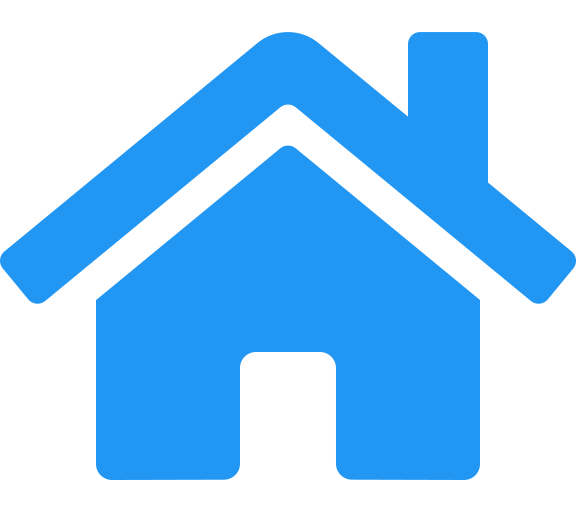
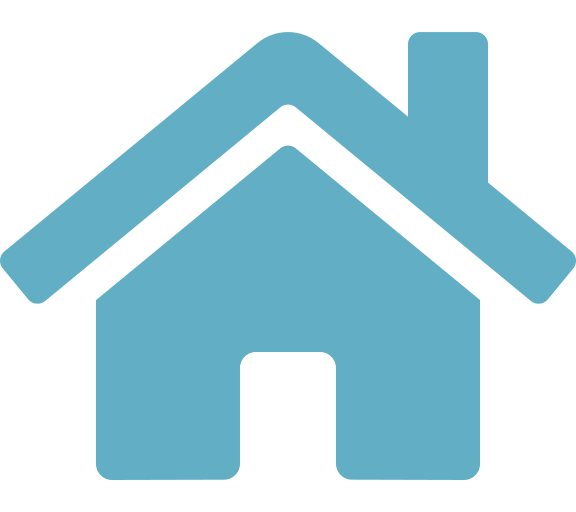
adding style changes and michi vs shiba project

diff --git a/src/components/comp-views/comp-view-projects.js b/src/components/comp-views/comp-view-projects.js
@@ -14,25 +14,18 @@ class ViewProjects extends Component{
         </div>
         <div className="row row-to-center">
           <div className="each-project-container col-sm-12 col-md-6">
-            <Project title={this.props.language.language.projects.projects[0].title} alt="Simpsons Trivia image" src='https://i.ibb.co/Gcw0pJ9/homer.png' 
-            description={this.props.language.language.projects.projects[0].description}
+            <Project title={this.props.language.language.projects.projects[5].title} alt="Michi image" src='https://i.ibb.co/1srK4XF/michi.png' 
+            description={this.props.language.language.projects.projects[5].description}
             deploy={this.props.language.language.projects.deploy}
             repo={this.props.language.language.projects.repository}
-            linkdeploy="https://alelulu.github.io/Trivia/index.html" linkgithub="https://github.com/alelulu/Trivia"/>
+            linkdeploy="https://mexico-stores.herokuapp.com/" linkgithub="https://github.com/alelulu/generation-take-home-intern"/>
           </div>
           <div className="each-project-container col-sm-12 col-md-6">
-            <Project title={this.props.language.language.projects.projects[1].title} alt="Pokemon image" src='https://i.ibb.co/PQ2YxDX/pokeball.png' 
-            description={this.props.language.language.projects.projects[1].description}
+            <Project title={this.props.language.language.projects.projects[4].title} alt="Map image" src='https://i.ibb.co/pLCqryr/map.png' 
+            description={this.props.language.language.projects.projects[4].description}
             deploy={this.props.language.language.projects.deploy}
             repo={this.props.language.language.projects.repository}
-            linkdeploy="https://alelulu.github.io/SCL009-data-lovers/src/index.html" linkgithub="https://github.com/alelulu/SCL009-data-lovers"/>
-          </div>
-          <div className="each-project-container col-sm-12 col-md-6">
-            <Project title={this.props.language.language.projects.projects[2].title} alt="Console image" src='https://i.ibb.co/nMdzsvG/mdlinks.png' 
-            description={this.props.language.language.projects.projects[2].description}
-            deploy={this.props.language.language.projects.deploy}
-            repo={this.props.language.language.projects.repository}
-            linkdeploy="https://www.npmjs.com/package/alelulu-md-links" linkgithub="https://github.com/alelulu/SCL009-md-links"/>
+            linkdeploy="https://mexico-stores.herokuapp.com/" linkgithub="https://github.com/alelulu/generation-take-home-intern"/>
           </div>
           <div className="each-project-container col-sm-12 col-md-6">
             <Project title={this.props.language.language.projects.projects[3].title} alt="SVKH image" src='https://i.ibb.co/svCntZZ/svkh.png' 
@@ -42,11 +35,25 @@ class ViewProjects extends Component{
             linkdeploy="https://sindrome-vkh.firebaseapp.com/" linkgithub="https://github.com/alelulu/SVKH-Chile"/>
           </div>
           <div className="each-project-container col-sm-12 col-md-6">
-            <Project title={this.props.language.language.projects.projects[4].title} alt="Map image" src='https://i.ibb.co/pLCqryr/map.png' 
-            description={this.props.language.language.projects.projects[4].description}
+            <Project title={this.props.language.language.projects.projects[2].title} alt="Console image" src='https://i.ibb.co/nMdzsvG/mdlinks.png' 
+            description={this.props.language.language.projects.projects[2].description}
             deploy={this.props.language.language.projects.deploy}
             repo={this.props.language.language.projects.repository}
-            linkdeploy="https://mexico-stores.herokuapp.com/" linkgithub="https://github.com/alelulu/generation-take-home-intern"/>
+            linkdeploy="https://www.npmjs.com/package/alelulu-md-links" linkgithub="https://github.com/alelulu/SCL009-md-links"/>
+          </div>
+          <div className="each-project-container col-sm-12 col-md-6">
+            <Project title={this.props.language.language.projects.projects[1].title} alt="Pokemon image" src='https://i.ibb.co/PQ2YxDX/pokeball.png' 
+            description={this.props.language.language.projects.projects[1].description}
+            deploy={this.props.language.language.projects.deploy}
+            repo={this.props.language.language.projects.repository}
+            linkdeploy="https://alelulu.github.io/SCL009-data-lovers/src/index.html" linkgithub="https://github.com/alelulu/SCL009-data-lovers"/>
+          </div>
+          <div className="each-project-container col-sm-12 col-md-6">
+            <Project title={this.props.language.language.projects.projects[0].title} alt="Simpsons Trivia image" src='https://i.ibb.co/Gcw0pJ9/homer.png' 
+            description={this.props.language.language.projects.projects[0].description}
+            deploy={this.props.language.language.projects.deploy}
+            repo={this.props.language.language.projects.repository}
+            linkdeploy="https://alelulu.github.io/Trivia/index.html" linkgithub="https://github.com/alelulu/Trivia"/>
           </div>
         </div>
       </div>

diff --git a/src/App.js b/src/App.js
@@ -1,22 +1,12 @@
 import React, { Component } from 'react';
 import './App.css';
 import { Switch, Route } from "react-router-dom";
-import Menu from './components/comp-menu/comp-menu';
 import { Link } from 'react-router-dom';
 import ViewAbout from './components/comp-views/comp-view-about'
 import ViewProjects from './components/comp-views/comp-view-projects';
 import ViewSkills from './components/comp-views/comp-view-skills';
 import es from './assets/data/es.json'
 import en from './assets/data/en.json'
-
-
-/* if(window.language == "es"){
-  setlanguage(es)
-}
-else {
-  console.log(language)
-  setlanguage(en)
-} */
 
 class App extends Component {
   constructor(props) {
@@ -63,19 +53,19 @@ class App extends Component {
               <div className="row nav-row">
                 <div className="col-sm-4 col-md-2 btn-container">
                   <Link to="/about">
-                    <img alt="About" src="https://i.ibb.co/T1FsWfX/home.png" className="nav-icon"/>
+                    <img alt="About" src="https://i.ibb.co/VV6W74y/home.png" className="nav-icon"/>
                     <p className="nav-title">{this.state.language.language.menu.about}</p>
                   </Link>
                 </div>
                 <div className="col-sm-4 col-md-2 btn-container">
                   <Link to="/projects">
-                    <img alt="Projects" src="https://i.ibb.co/tPLBD8r/projects.png" className="nav-icon"/>
+                    <img alt="Projects" src="https://i.ibb.co/2KKPmnS/projects.png" className="nav-icon"/>
                     <p className="nav-title">{this.state.language.language.menu.projects}</p>
                   </Link>
                 </div>
                 <div className="col-sm-4 col-md-2 btn-container">
                   <Link to="/skills">
-                    <img alt="Skills" src="https://i.ibb.co/w7FSRsQ/skills.png" className="nav-icon"/>
+                    <img alt="Skills" src="https://i.ibb.co/YkMwSg4/skills.png" className="nav-icon skills-icon"/>
                     <p className="nav-title">{this.state.language.language.menu.skills}</p>
                   </Link>
                 </div>

diff --git a/src/App.css b/src/App.css
@@ -4,7 +4,7 @@
 
 .window-content {
   width: 100%;
-  margin-top: 7%;
+  margin-top: 4%;
   margin-bottom: 4%;
   min-height: 70vh;
   position: relative;
@@ -12,7 +12,7 @@
   border: 1px solid #dddddd;
 /*   background-image: url("./assets/img/background.png"); */
   padding: 0;
-  background-color: #ffe1e0;
+  background-color: #ffe9e8;
 }
 .window-content::before {
   content: " ";
@@ -43,6 +43,7 @@
   top: 0;
   margin: 0;
   padding: 15px;
+  border-bottom: 1px solid #cacaca;
 }
 
 .title {
@@ -101,11 +102,11 @@
 }
 
 input:checked + .slider {
-  background-color: #6dc9c9;
+  background-color: #62aec5;
 }
 
 input:focus + .slider {
-  box-shadow: 0 0 1px #6dc9c9;
+  box-shadow: 0 0 1px #62aec5;
 }
 
 input:checked + .slider:before {
@@ -145,7 +146,32 @@ a:hover {
 }
 .btn-container {
   text-align: center;
+  width: 75px;
   margin: 0rem -1rem 1rem -1rem;
+}
+
+.nav-row {
+  text-align: center;
+}
+
+.menu-container {
+  text-align: center;
+}
+
+.nav-icon {
+  width: 25px;
+  margin-top: 17px;
+  margin-bottom: 1px;
+}
+.nav-title {
+  color: #ff6f69
+}
+.btn-container {
+  text-align: center;
+}
+.skills-icon {
+  height: 21px!;
+  width: 21px
 }
 
 @media (max-width: 600px) {

diff --git a/src/components/comp-project/comp-project.js b/src/components/comp-project/comp-project.js
@@ -8,9 +8,9 @@ class Project extends Component{
 				<h4 className="project-title">{this.props.title}</h4>
 				<img className="project-img" src={this.props.src} alt={this.props.alt}/>
 				<p>{this.props.description}</p>
-				<a target="_blank" href={this.props.linkdeploy}>{this.props.deploy}</a>
+				<a target="_blank" rel="noopener noreferrer" href={this.props.linkdeploy}>{this.props.deploy}</a>
 				<br/>
-				<a className="project-github" target="_blank" href={this.props.linkgithub}>{this.props.repo}</a>
+				<a className="project-github" target="_blank" rel="noopener noreferrer" href={this.props.linkgithub}>{this.props.repo}</a>
       </div>
     )
   }

diff --git a/src/components/comp-views/comp-view-skills.js b/src/components/comp-views/comp-view-skills.js
@@ -14,7 +14,7 @@ class ViewSkills extends Component{
         <div className="row">
           <div className="col sm-4">
             <a target="_blank" rel="noopener noreferrer" href="https://developer.mozilla.org/en-US/docs/Web/Guide/HTML/HTML5"><i className="fab fa-html5" data-toggle="tooltip" title="HTML5"></i></a>
-            <h4 className="blue-title">HTML</h4>
+            <h4 className="blue-title">HTML 5</h4>
           </div>
           <div className="col-sm-4">
             <a target="_blank" rel="noopener noreferrer" href="https://www.javascript.com/"><i className="fab fa-js" data-toggle="tooltip" title="Javascript"></i></a>

diff --git a/src/components/comp-views/comp-view-about.css b/src/components/comp-views/comp-view-about.css
@@ -4,20 +4,21 @@
 
 .view-container {
   background-image: url("../../assets/img/background.png");
-  color: #5c5c5c;
+  color: #20242a;
   width: 90%;
-  border: #6dc9c9 1px solid;
+  border: #62aec5 1px solid;
   border-radius: 8px;
   margin-bottom: 2rem;
   font-family: 'VT323', monospace;
-  font-size: 20px
+  font-size: 20px;
+  box-shadow: 0 2px 2px 0 rgba(214, 31, 92, 0.2), 0 2px 2px 0 rgba(214, 31, 92, 0.2);
 }
 .red-title {
   font-family: pix;
   color: #ff6f69;
 }
 .blue-title {
-  color: #6dc9c9;
+  color: #62aec5;
   font-family: pix;
 }
 .centering {

diff --git a/src/components/comp-project/comp-project.css b/src/components/comp-project/comp-project.css
@@ -9,13 +9,14 @@
 }
 
 .project-container {
-    background-color: #ffe1e0;
-    border: 1px #6dc9c9 solid;
+    background-color: #ffe9e8;
+    border: 1px #62aec5 solid;
     border-radius: 5px;
     padding: 20px;
     width: 90%;
     margin-left: 21px;
-    margin-bottom: 2rem
+    margin-bottom: 2rem;
+    box-shadow: 0 2px 2px 0 rgba(214, 31, 92, 0.2), 0 2px 2px 0 rgba(214, 31, 92, 0.2);
 }
 
 @media (max-width: 600px) {

diff --git a/src/components/comp-menu/comp-menu.js b/src/components/comp-menu/comp-menu.js
@@ -1,5 +1,5 @@
 import React, { Component } from 'react';
-import './comp-menu.css';
+//import './comp-menu.css';
 import Btn from '../comp-btn/comp-btn';
 import { Link } from 'react-router-dom';
 
